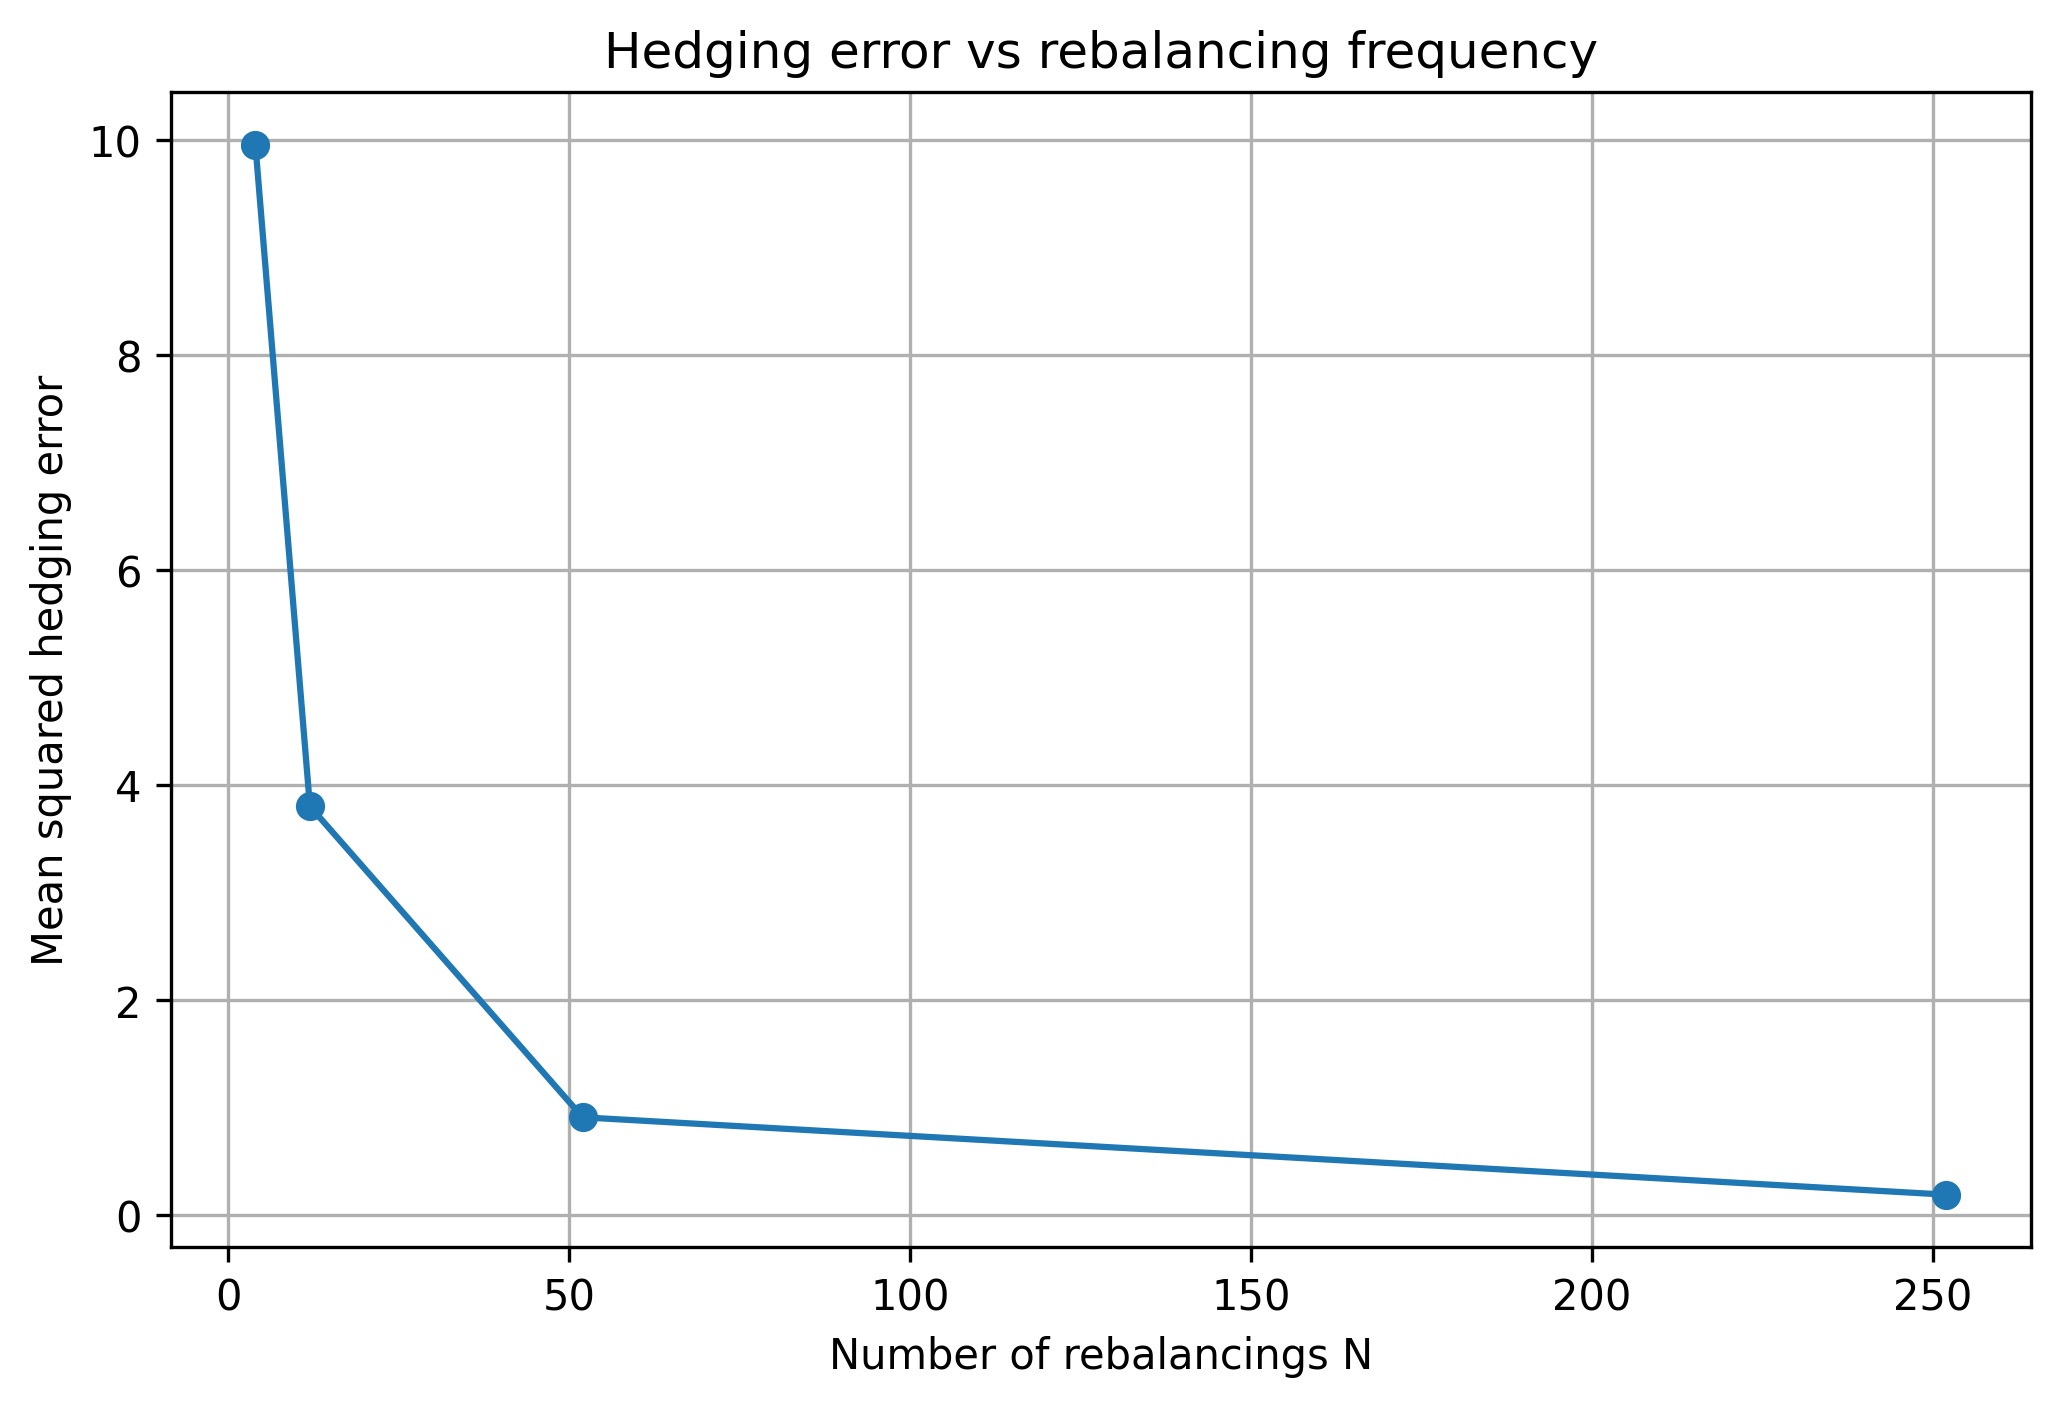
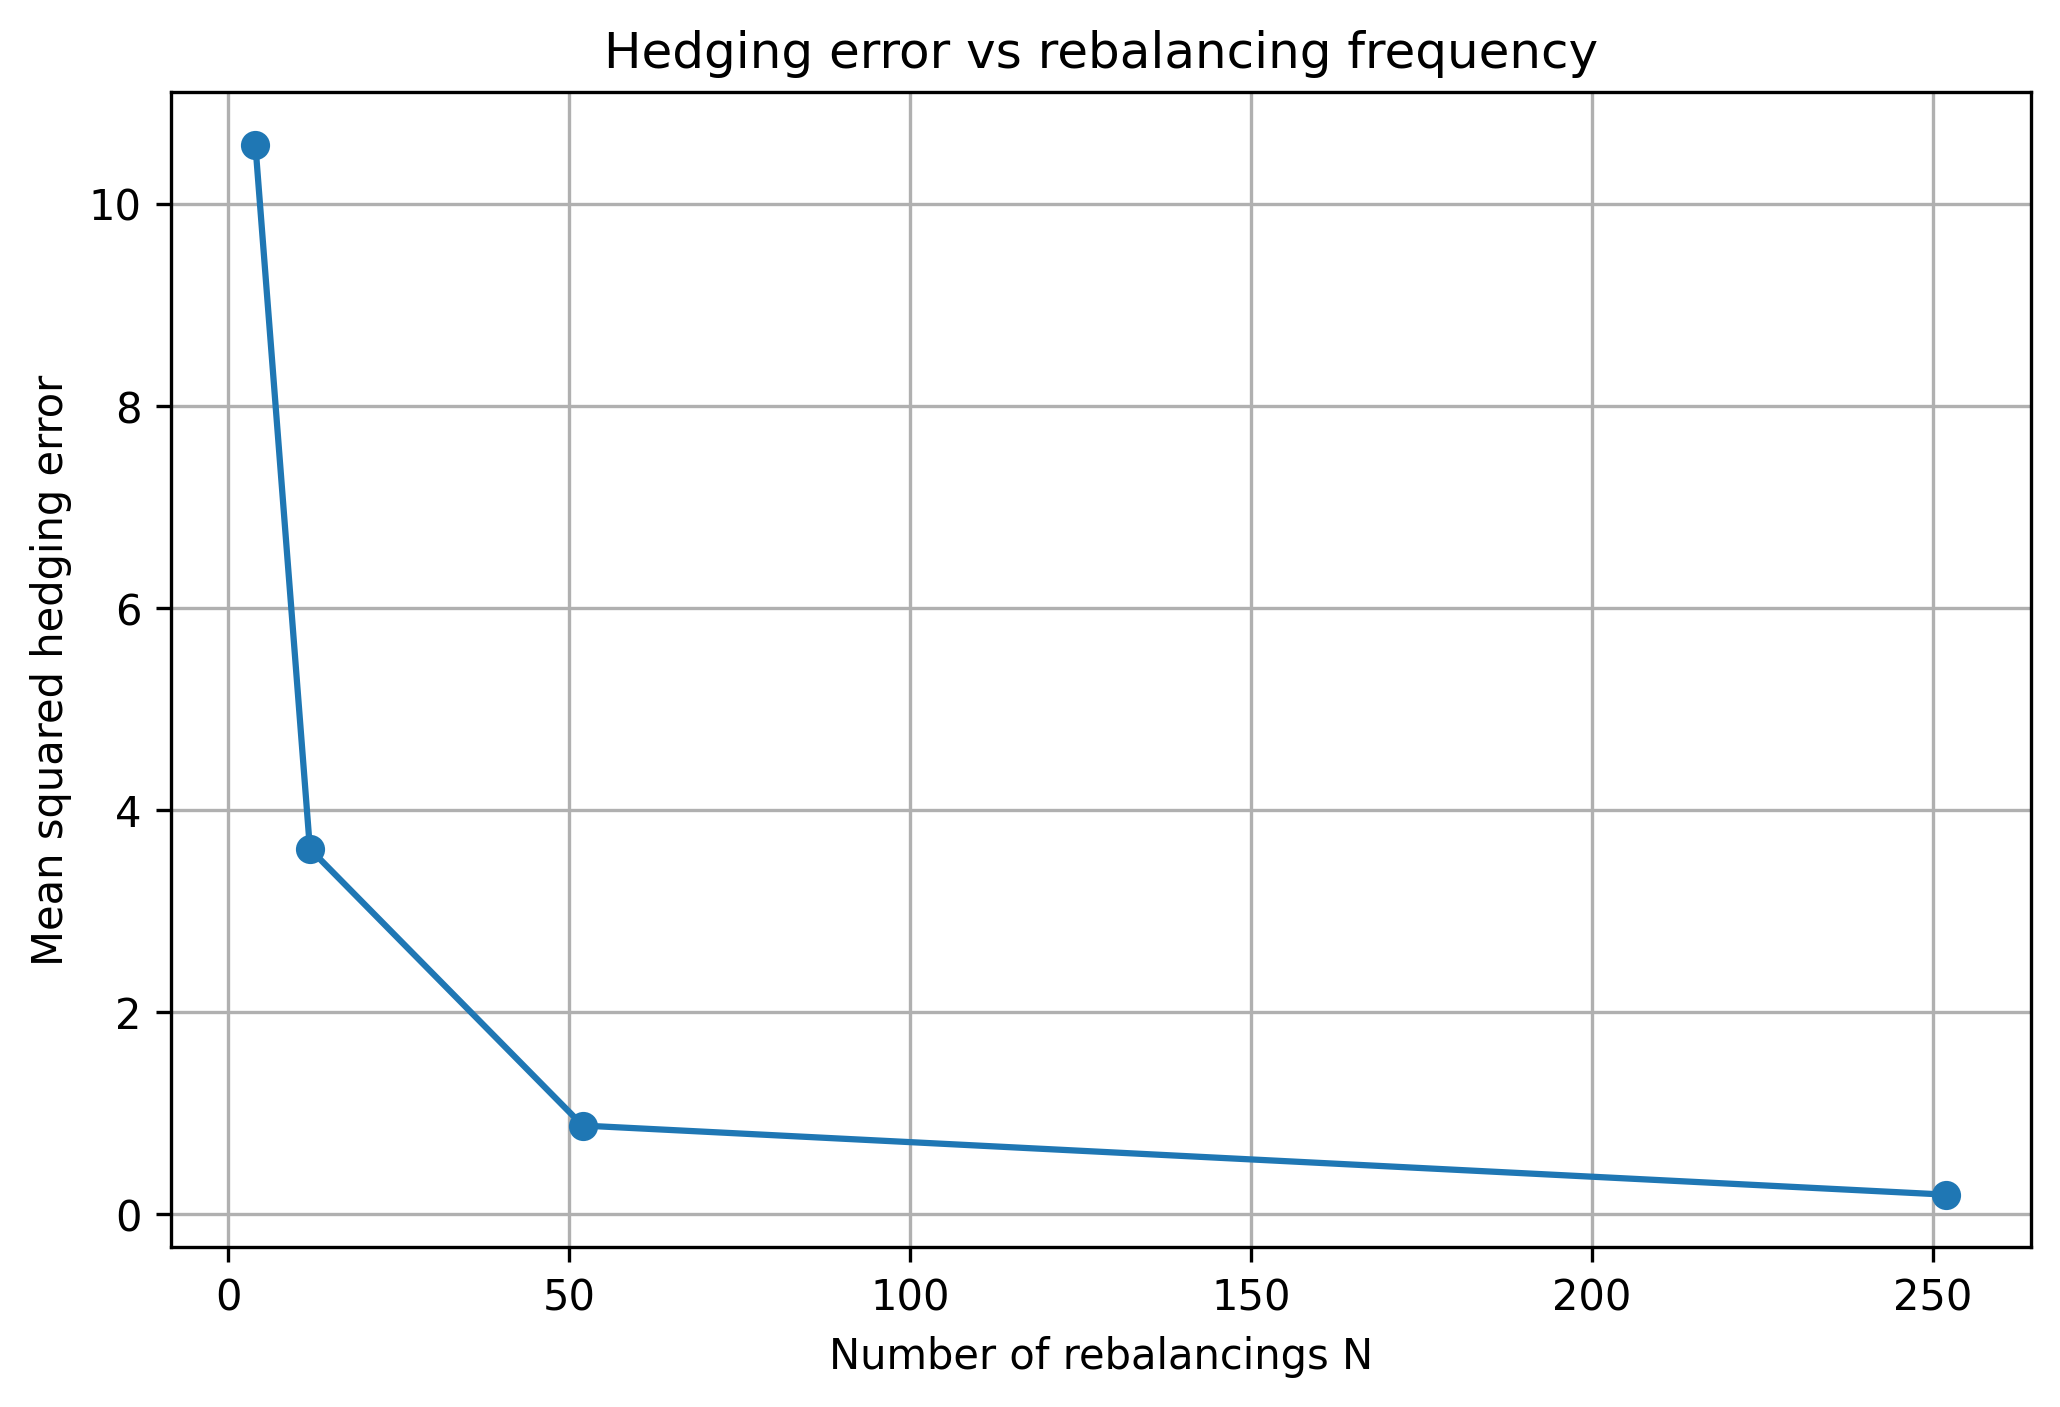
Add Monte Carlo simulations for hedging error analysis with varying parameters

diff --git a/simulation_sigma.py b/simulation_sigma.py
@@ -1,0 +1,163 @@
+# Monte Carlo evaluation of hedging error in discrete vs continuous portfolio updating
+# Impact of volatility parameter sigma
+
+
+
+# ------ Dépendances ------
+
+import numpy as np
+from scipy.stats import norm
+import matplotlib.pyplot as plt
+
+
+
+# ------ Paramètres ------
+
+mu = 0.05
+K = 100
+T = 1
+R = 0.05
+S0 = 100
+M = 10000 # nombre de trajectoires MC
+N_values = np.linspace(4, 256, 20).astype(int)
+SIGMA_values = [0.05, 0.10, 0.20]
+N_plot = 52
+
+
+
+# ------ Fonctions ------
+
+def init_call_price(S_0=S0, K=K, r=R, sigma=0.2, T=T):
+    """Calcule la valeur initiale du portefeuille F(0,S_0)"""
+    d1 = (np.log(S_0/K) + (r+0.5*sigma**2)*T) / (sigma*np.sqrt(T))
+    d2 = d1 - sigma*np.sqrt(T)
+    return S_0*norm.cdf(d1)-K*np.exp(-r*T)*norm.cdf(d2)
+
+
+def delta(tau, S, K=K, sigma=0.2, T=T, r=R):
+    """
+    Calcule la valeur du delta pour un time to maturity tau
+    et une valeur du sous jacent S donnnés
+    """
+    if tau <= 0: # Delta à maturité
+        return 1.0 if S > K else 0.0
+
+    d1 = (np.log(S/K) + (r+0.5*sigma**2)*tau) / (sigma*np.sqrt(tau))
+    return norm.cdf(d1)
+
+
+def sim_S(N, sigma, mu=mu, S_0=S0, T=T):
+    """Simule une trajectoire aléatoire de l'actif sous-jacent"""
+    dt = T/N
+    S = np.zeros(N+1)
+    S[0] = S_0
+    for k in range(N):
+        Z = np.random.normal()
+        S[k+1] = S[k]*np.exp((mu-0.5*sigma**2)*dt + sigma*np.sqrt(dt)*Z)
+    return S
+
+
+def sim_portefeuille(S, sigma, K=K, r=R, T=T):
+    """Simule un portefeuille de couverture à partir d'une trajectoire de sous-jacent S"""
+    N = len(S) - 1
+    dt = T/N
+    V = np.zeros(N+1)
+    V[0] = init_call_price(S_0=S[0], sigma=sigma)
+    for k in range(N):
+        t = k * dt
+        tau = T - t
+        d = delta(tau, S[k], K, sigma, T, r)
+        V[k+1] = d*S[k+1] + (V[k]-d*S[k])*np.exp(r*dt)
+    return V
+
+
+def erreur_couverture(N, sigma, mu=mu, S_0=S0, K=K, r=R, T=T):
+    """Calcule l'erreur de couverture pour une trajectoire de simulation"""
+    S = sim_S(N, sigma, mu, S_0, T)
+    V = sim_portefeuille(S, sigma, K, r, T)
+    payoff = max(S[-1] - K, 0)
+    error = V[-1] - payoff
+    return error, S[-1], V[-1], payoff
+
+
+
+# ------ Boucle Monte-Carlo ------
+
+def mc_erreur_couverture(N, sigma, mu=mu, S_0=S0, r=R, K=K, T=T, M=M):
+    errors = np.zeros(M)
+    V_sims = np.zeros(M)
+    S_sims = np.zeros(M)
+    payoffs = np.zeros(M)
+
+    for m in range(M):
+        error, S, V, payoff = erreur_couverture(N, sigma, mu, S_0, K, r, T)
+
+        errors[m] = error
+        V_sims[m] = V
+        S_sims[m] = S
+        payoffs[m] = payoff
+
+    mse = np.mean(errors**2)
+    return mse, errors, V_sims, S_sims, payoffs
+
+
+
+# ------ SIMULATION -------
+
+if __name__ == "__main__":
+
+    simulations = {}
+
+    for sigma in SIGMA_values:
+        simulations[sigma] = {}
+        for N in N_values:
+            sim_stats = mc_erreur_couverture(N, sigma=sigma, mu=mu, S_0=S0, r=R, K=K, T=T, M=M)
+            simulations[sigma][N] = {'N': N,
+                                     'mse': sim_stats[0],
+                                     'errors': sim_stats[1],
+                                     'VT': sim_stats[2],
+                                     'ST': sim_stats[3],
+                                     'payoffs': sim_stats[4]}
+            print(f"sigma={sigma}, N={N}, MSE={sim_stats[0]:.6f}")
+
+    # ----- Graphiques
+
+    # Erreur de couverture en fonction du nombre de rebalancements
+
+    plt.figure(figsize=(8,5))
+
+    for sigma in SIGMA_values:
+        N_list = list(N_values)
+        mse_list = [simulations[sigma][N]["mse"] for N in N_values]
+        plt.plot(N_list, mse_list, marker="o", label=rf"$\sigma={sigma}$")
+
+    plt.xlabel("Number of rebalancings N")
+    plt.ylabel("Mean squared hedging error")
+    plt.title(r"Hedging error vs rebalancing frequency — varying $\sigma$")
+    plt.legend()
+    plt.grid(True)
+    plt.savefig("plots/sigma_dependence/hedging_error_vs_N_sigma.png", dpi=300, bbox_inches="tight")
+
+
+    # Scatterplot (S, V)
+
+    fig, axes = plt.subplots(1, 3, figsize=(15, 5))
+
+    for i, sigma in enumerate(SIGMA_values):
+        ST = simulations[sigma][N_plot]["ST"]
+        VT = simulations[sigma][N_plot]["VT"]
+
+        x = np.linspace(min(ST), max(ST), 500)
+        payoff_curve = np.maximum(x - K, 0)
+
+        axes[i].scatter(ST, VT, s=8, alpha=0.5, label="Portfolio terminal value")
+        axes[i].plot(x, payoff_curve, color="red", linewidth=2, label="Call payoff")
+        axes[i].set_xlabel(r"$S_T$")
+        axes[i].set_ylabel(r"$V_T^N$")
+        axes[i].set_title(rf"$\sigma={sigma}$, N={N_plot}")
+        axes[i].legend()
+        axes[i].grid(True)
+
+    fig.suptitle(r"Terminal portfolio value vs payoff — varying $\sigma$", fontsize=14)
+    plt.tight_layout()
+    plt.savefig("plots/sigma_dependence/ST_vs_VT_sigma.png", dpi=300, bbox_inches="tight")